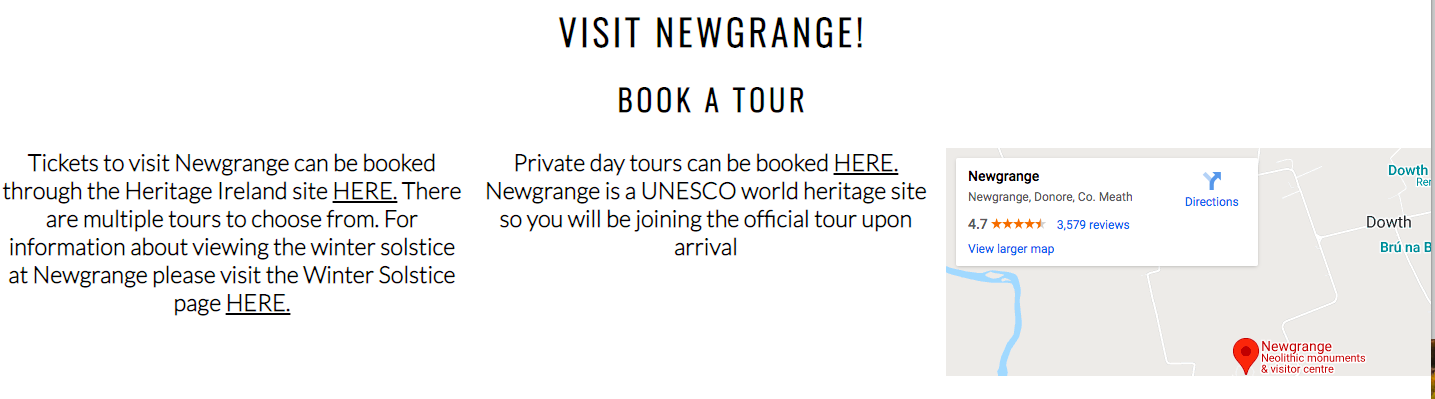
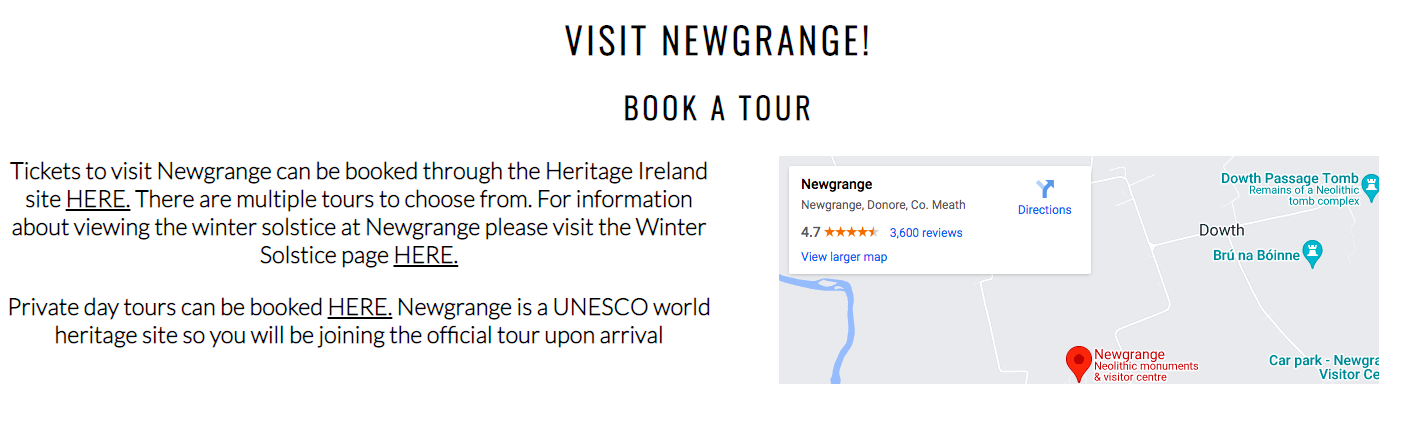
add layout to history page

Changed region(s): [[0.0, 0.0, 1.0, 1.0], [0.3742, 0.0301, 0.6237, 0.1504], [0.4054, 0.2105, 0.5925, 0.3008]]

diff --git a/assets/css/style.css b/assets/css/style.css
@@ -211,7 +211,8 @@ footer {
 #worship {
     padding-top: 50px;
     float: left;
-    width: 100%;
+    width: fit-content;
+    margin: auto;
     height: 100%;
     overflow: hidden;
     font-size: 125%;
@@ -231,7 +232,8 @@ footer {
 #burial {
     padding-top: 50px;
     float: left;
-    width: 100%;
+    width: fit-content;
+    margin: auto;
     height: 100%;
     overflow: hidden;
     font-size: 125%;

diff --git a/README.md b/README.md
@@ -1,7 +1,7 @@
 <h1>Newgrange Monument</h1>
 <br>
 
-<img src="assets/images/am-i-responsive-p1.png">
+<img src="assets/images/newgrange-responsive.png">
 
 <br>
 
@@ -49,7 +49,7 @@ The purpose of the Newgrange website is to provide information to tourists and h
 <img src="assets/images/visit-newgrange.png">
 <ul>
 <li>This section provides information about location and where to buy tour tickets</li>
-<li>This portion of the website is also split into three sections, two dedicated to different tours and one for location</li>
+<li>This portion of the website is also split into two sections, one dedicated to different tours and one for location</li>
 <li>There is also an embedded google map link</li>
 <li>These sections sit beside eachother on desktop and stack ontop of eachother on mobile</li>
 <li>The black font contrast with the white background, making it easier to read</li>
